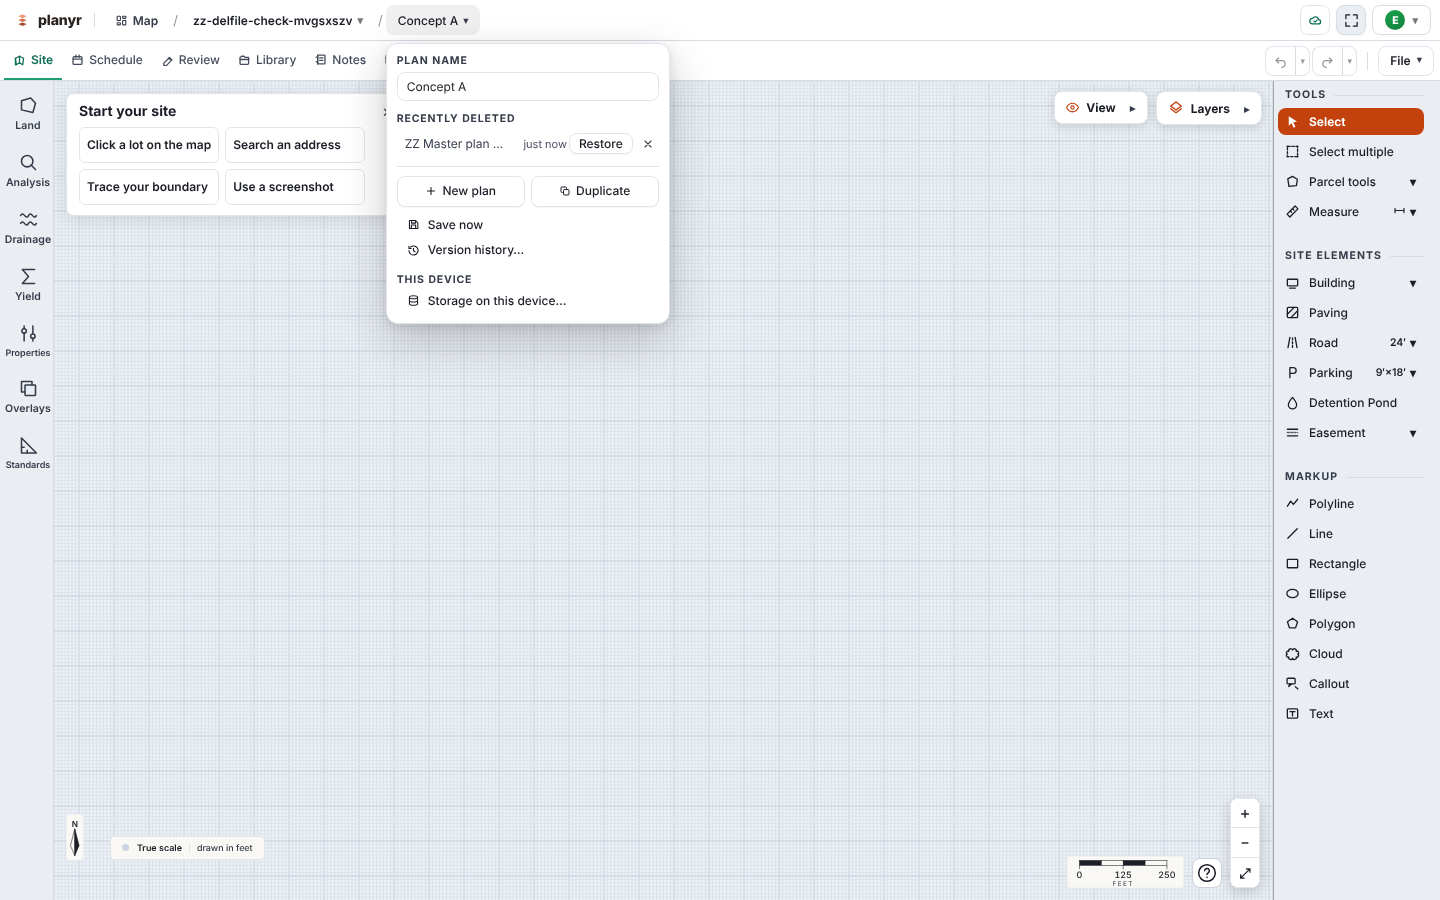
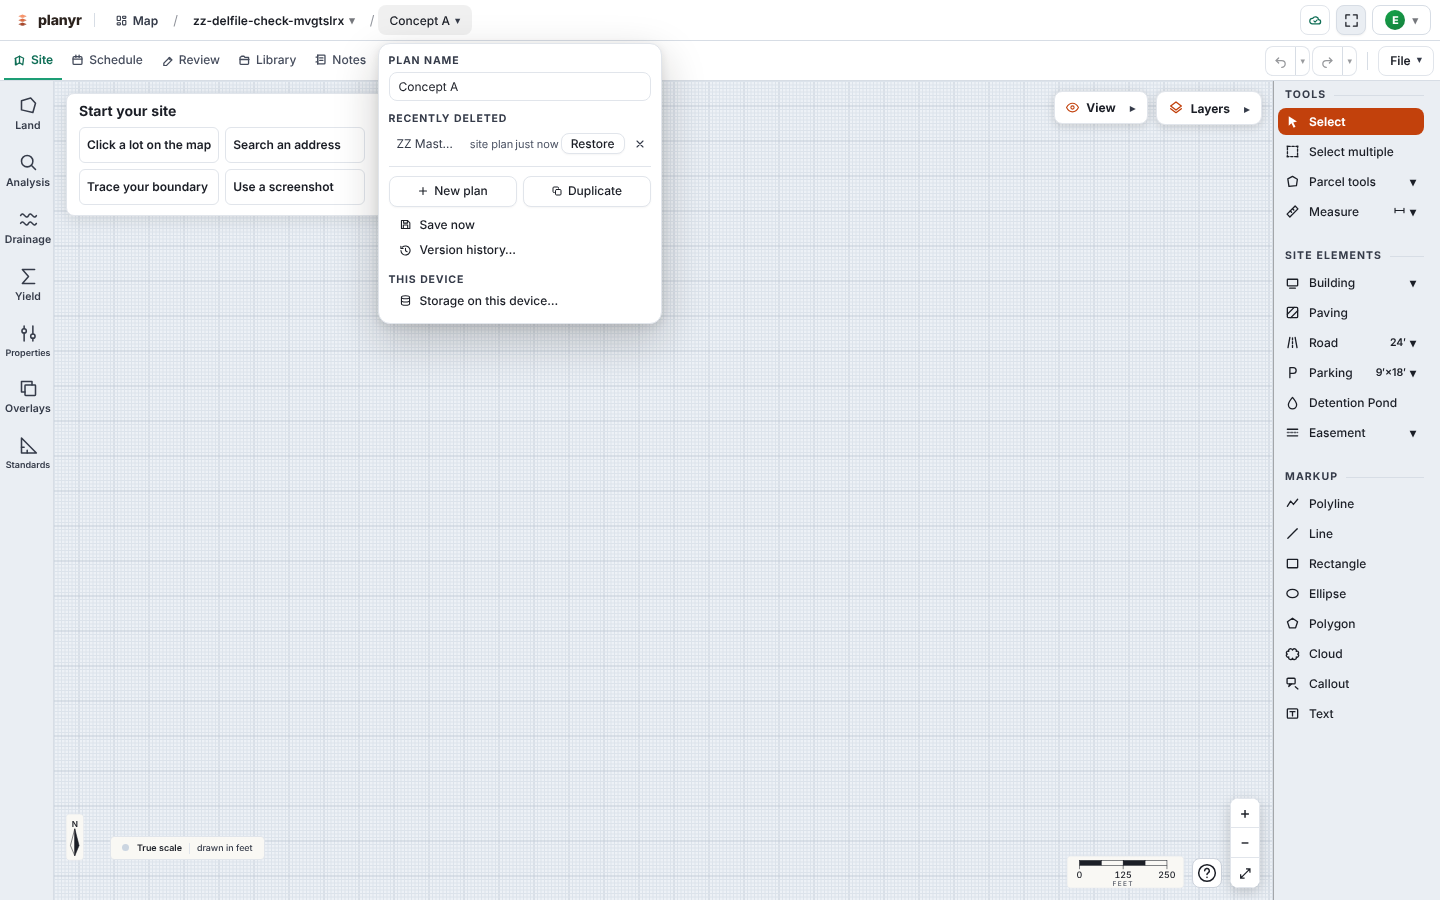
Record V1794816 live PASS on 654ca32; B2364288 done; harness retries a project open (B2364288)
Claude-Session: https://claude.ai/code/session_015Wk5LzTbRpSCyfahwb4fps

Changed region(s): [[0.25, 0.0622, 0.4688, 0.3422], [0.2188, 0.0, 0.3125, 0.0311]]

diff --git a/ledger/backlog/done/B2364288.md b/ledger/backlog/done/B2364288.md
@@ -2,4 +2,6 @@
 **Stopping rule:** closed when a signed-in pass on planyr.io (build hash read in the same call as the assertions) shows the All comps list with NO deleted-site-plans section AND a throwaway site-plan file deleted then restored from the plan menu's "Recently deleted" and still intact after a cache-busting reload — V1794816.
 **What shipped.** `SitePlansSection.jsx` no longer renders, fetches or carries the "Recently deleted site plans" disclosure (state, `loadTrash`/`restore`/`purgeForever`, `maybeRetireTrackedSite`, the `showPlanTrash` prop and MapFinder's `compsView` plumbing for it are all gone). **Restore-path audit (the data-safety rule):** a "site plan" here is an uploaded drawing (`site_plan_overlays`), NOT a Concept A/B plan — those already restore from the plan menu's per-project "Recently deleted" (B1469872) and are untouched. For the drawings, `restoreOverlay` had exactly ONE caller (the removed list) — no other restore path existed — so the list MOVED rather than vanished: the same plan menu's "Recently deleted" group (header unchanged, no grey fill) now also lists this project's deleted site-plan files, each with Restore and Delete forever (inline confirm, like the plan rows), via `shared/sitePlans/lib/deletedSitePlanFiles.js` (dynamic import — nothing joins the Site route's critical path). A file detached from every site stays reachable in whichever project's menu is open (as the record view treated it). Same soft-delete bin, same store calls, same tracked-site tidy-up on a permanent delete; **retention untouched** (the bin has never auto-purged). The comps' OWN "Recently deleted" (deleted comp records) is a separate list (`CompsPanel.jsx`) and is unchanged.
 **Two things for the owner.** (1) The brief's "plan switcher" and the code's "site plans" are two different objects; the drawings are now restorable from the plan switcher's Recently deleted, listed as "<name> · site plan" (page in the tooltip). (2) Anything deleted while NOT in that project's planner is found by opening that project's plan menu — there is no longer an account-wide list of deleted drawings.
-Verify: live — sandbox arm green (`test/deletedSitePlanFiles.test.js`, `test/compRecordLayout.test.js` incl. the new "no section / restore moved" guards, build, lint). Live: V1794816.
+Verify: live — ✅ PASSED 2026-10-20 on build 654ca32 (V1794816), signed in as the test account, /version.json read in the same run: 13/13 (All comps list has no deleted-site-plans section and still has the comps' own Recently deleted; the file listed in the plan menu tagged "site plan", no grey fill; Restore → live row, same name/page/project; intact after a cache-busting reload; Delete forever asks first then removes). Sandbox arm: `test/deletedSitePlanFiles.test.js`, `test/compRecordLayout.test.js`, build, lint. Screenshots: `docs/screens/b2364288/`.
+**Disposition note (owner-reported item, STANDING RULE #2):** disposition taken = reproduce/fix-and-verify (a change request, not a symptom; closed on a passing live check, not on a null).
+**Incident recorded, not hidden:** the live harness's FIRST full run (build 9b77f3b) read the new project's id before the app had navigated, so its rename and cleanup hit the standing `e2e-fixture` group and soft-deleted 7 rows. Nothing was hard-deleted; all 7 rows were restored and the group renamed back to "E2E Fixture" through `rename_site_group`, and the account was re-read afterwards (7 live rows, one name; nothing left in the trash from the final run except its own throwaway project). The harness now waits for the hash to leave `e2e-fixture*`, refuses to touch fixture rows, and retries a project open that lands on the Map.

diff --git a/ledger/verification/done/V1794816.md b/ledger/verification/done/V1794816.md
@@ -8,3 +8,5 @@ Runs from a session (no Michael step): `ui-audit/lib/signedInSession.mjs` (`open
 5. Cache-busting reload (`?_=<ts>`, hash read again). Expect: still there, same name/page, image intact.
 6. Delete it again → ✕ → "Delete" confirm. Expect: gone from the group for good. Then delete the throwaway project.
 Result + build hash + screenshots of both places recorded here when run.
+
+**RESULT — ✅ PASSED live 2026-10-20, build `654ca32` (read from planyr.io/version.json in the same run as the assertions), signed in as `e2e@planyr.test`.** `node ui-audit/verify-deleted-site-plan-files-live.mjs https://planyr.io --expect-build 654ca32` — all 13 steps: (1) no "Recently deleted site plans" on the All comps list while the comps' own "Recently deleted" is present (known-good arm); (2) the deleted site-plan file is listed in the throwaway project's plan menu "Recently deleted" tagged "site plan", transparent background; (3) Restore → row live again (`deleted_at` null, same title, page 3, same project) and gone from the menu; (4) cache-busting reload: still live, `img_w`/`img_h`/source file/review id intact; (5) Delete forever asks first (nothing deleted), then removes the row for good; (6) cleanup: overlay + doc_reviews row removed, throwaway project trashed. Re-read afterwards: the `e2e-fixture` group has its 7 live rows under "E2E Fixture", no leftover overlays or reviews. An earlier run on 9b77f3b also passed 13/13 (before the tag fix). Screenshots: `docs/screens/b2364288/`.
